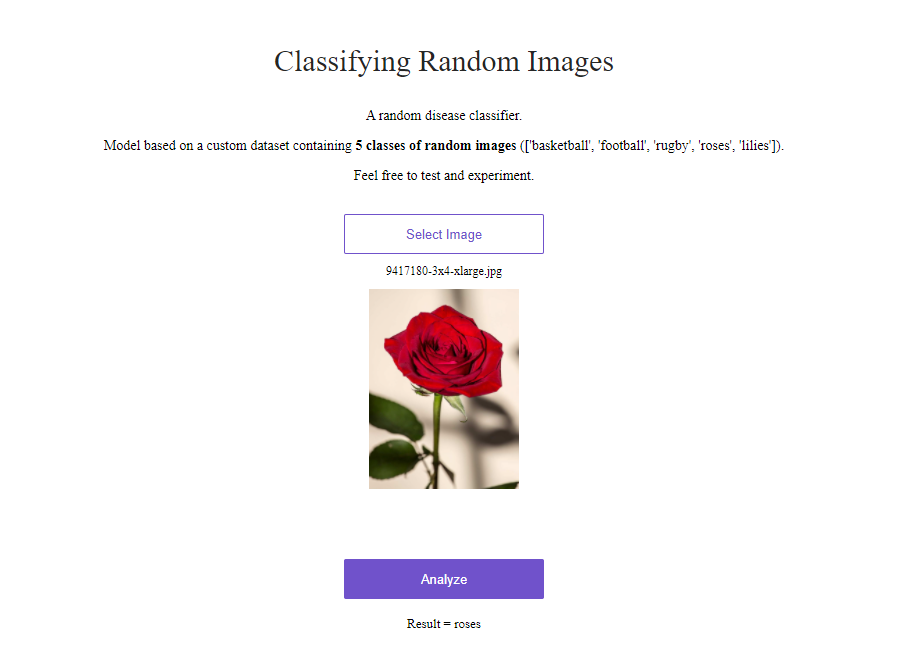
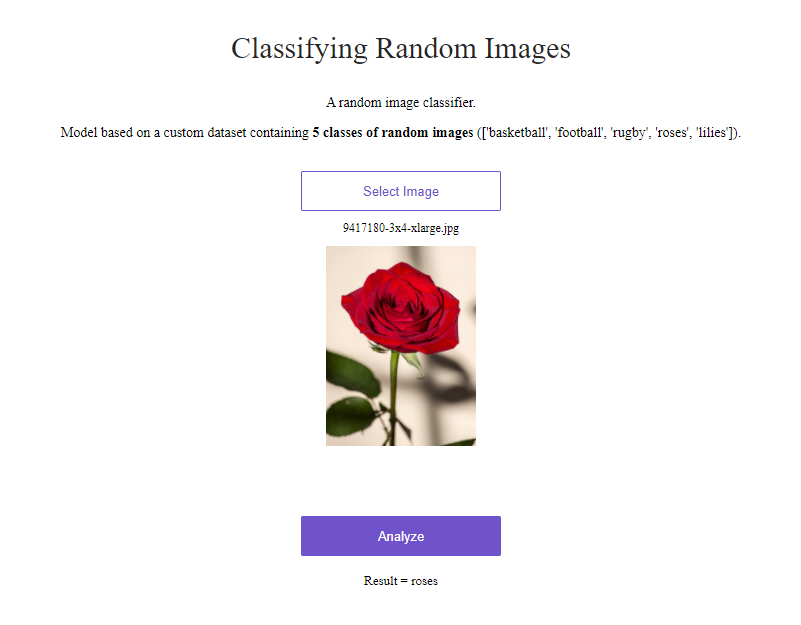
Update README

diff --git a/app/view/index.html b/app/view/index.html
@@ -9,9 +9,8 @@
   <div class='center'>
     <div class='title'>Classifying Random Images </div>
     <p>
-      A random disease classifier. 
+      A random image classifier. 
       <p>Model based on a custom dataset containing <strong>5 classes of random images</strong> (['basketball', 'football', 'rugby', 'roses', 'lilies']).</p>
-      Feel free to test and experiment. 
     </p>
     <div class='content'>
       <div class='no-display'>
